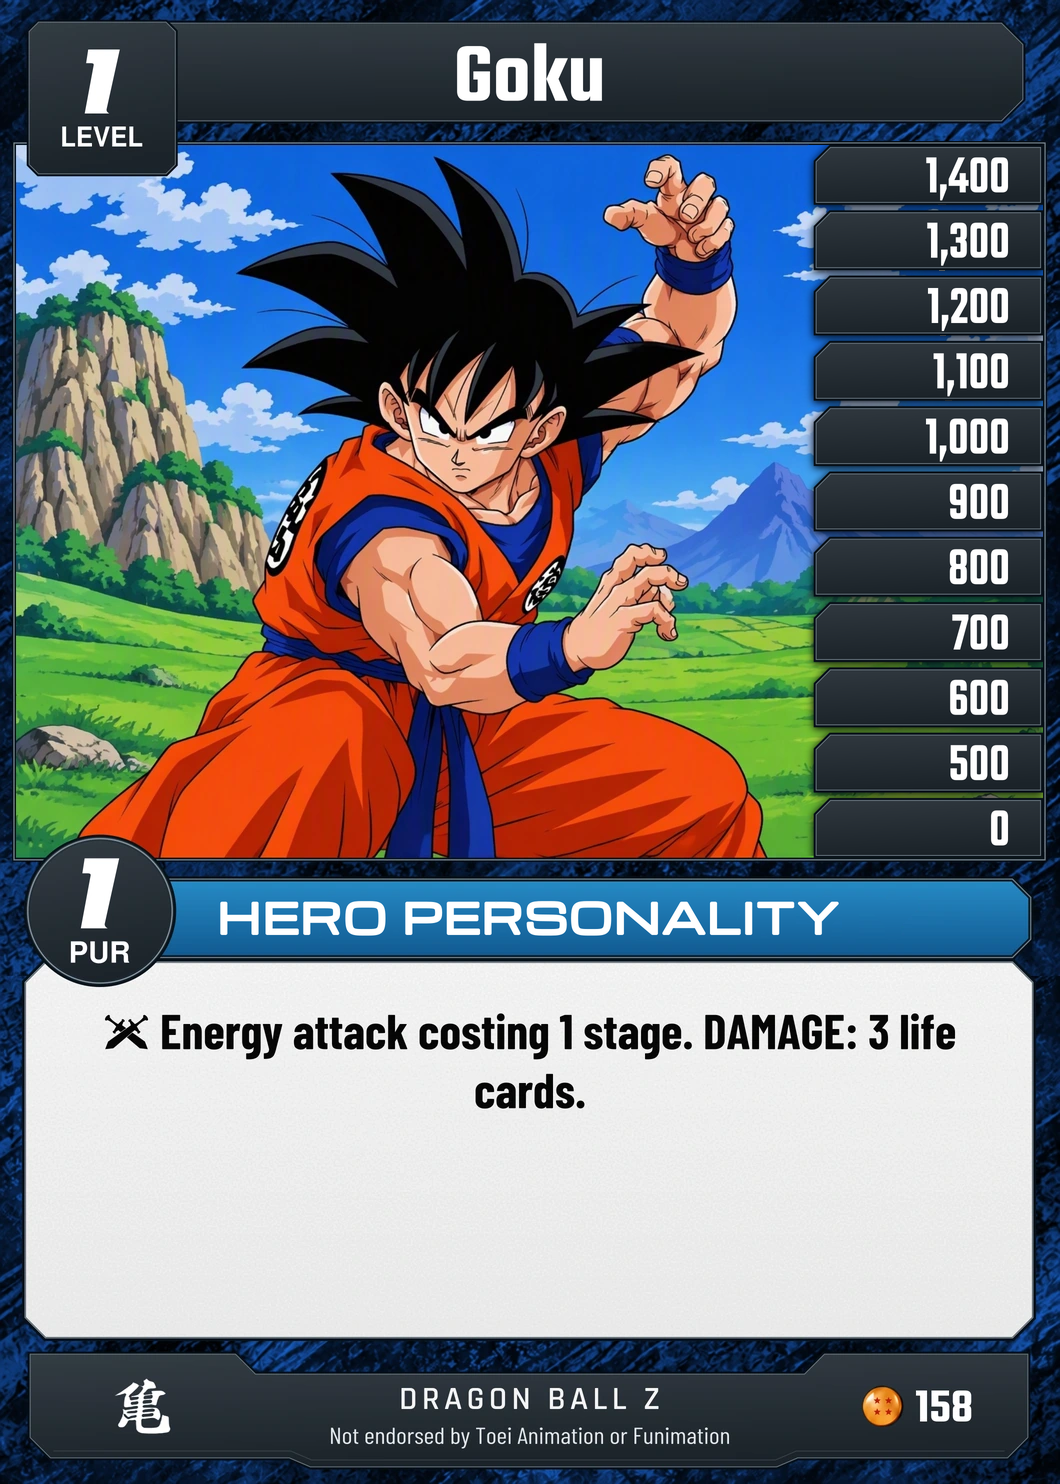
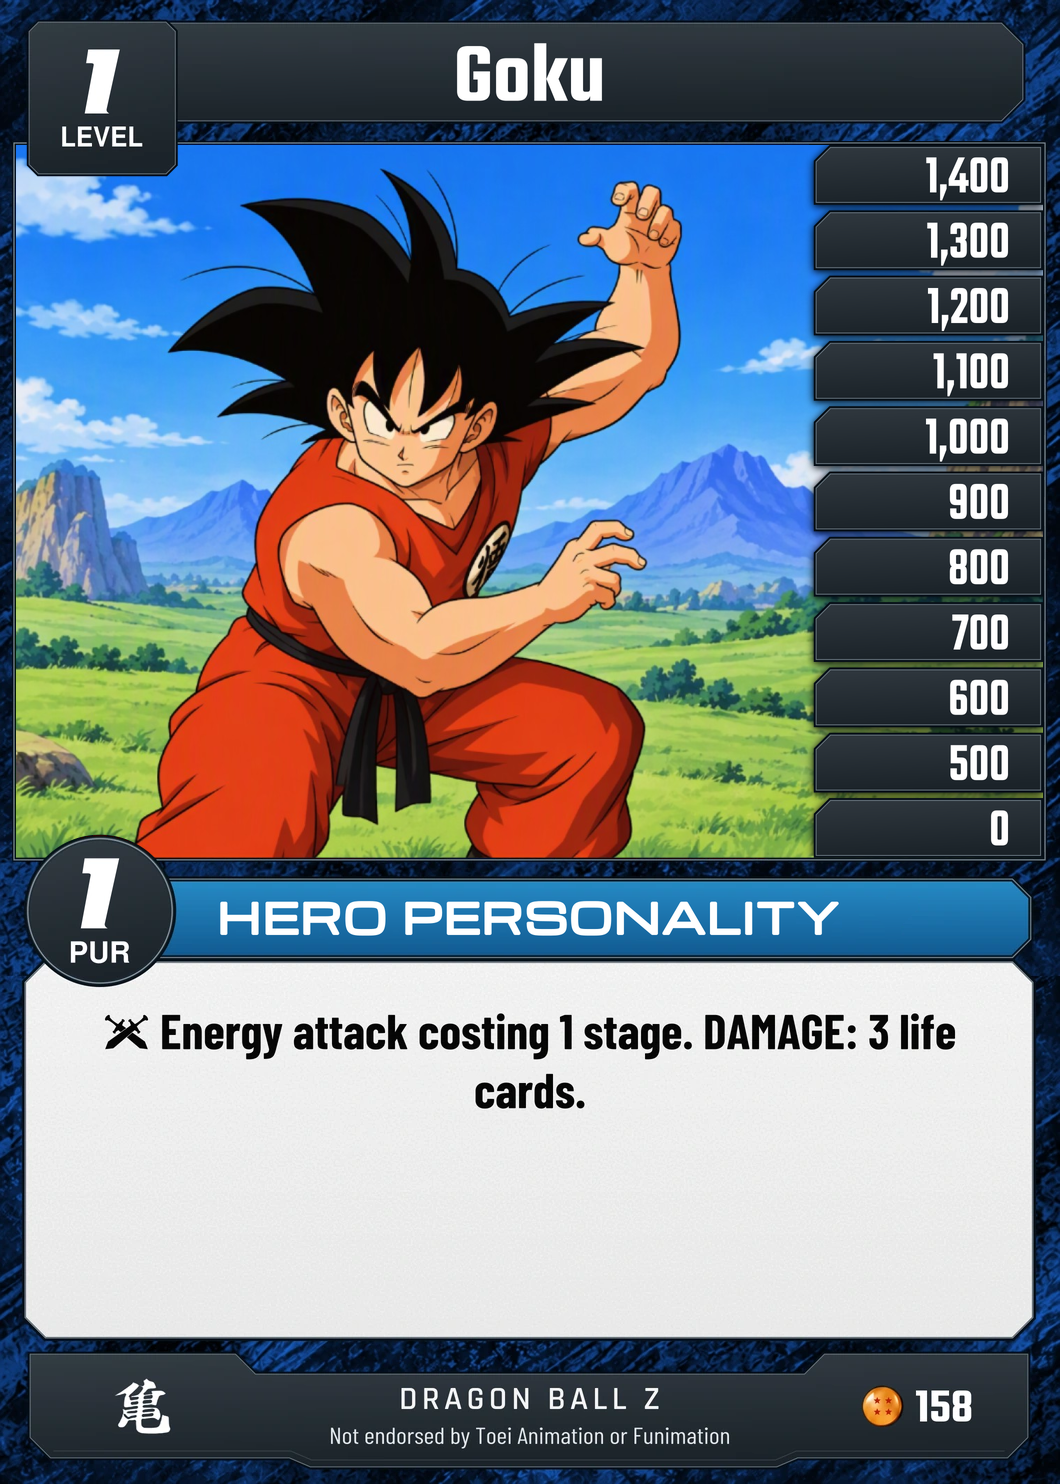
Update Saiyan Goku #158 with approved reference artwork

diff --git a/public/cards/catalog.js b/public/cards/catalog.js
@@ -2205,11 +2205,11 @@ export const catalog = [
     "style": "Freestyle",
     "set": "Saiyan Saga",
     "status": "Ready",
-    "image": "/assets/cards/saiyan-158-goku.webp?v=24ee76202e9d",
+    "image": "/assets/cards/saiyan-158-goku.webp?v=9102cd12cf94",
     "source": "https://retrodbzccg.com/card-images/saiyan-saga-starter/",
     "width": 1060,
     "height": 1484,
-    "downloadImage": "/assets/cards/downloads/saiyan-158-goku.webp?v=10ae34930395"
+    "downloadImage": "/assets/cards/downloads/saiyan-158-goku.webp?v=c407bb63e30d"
   },
   {
     "id": "saiyan-159-goku",
